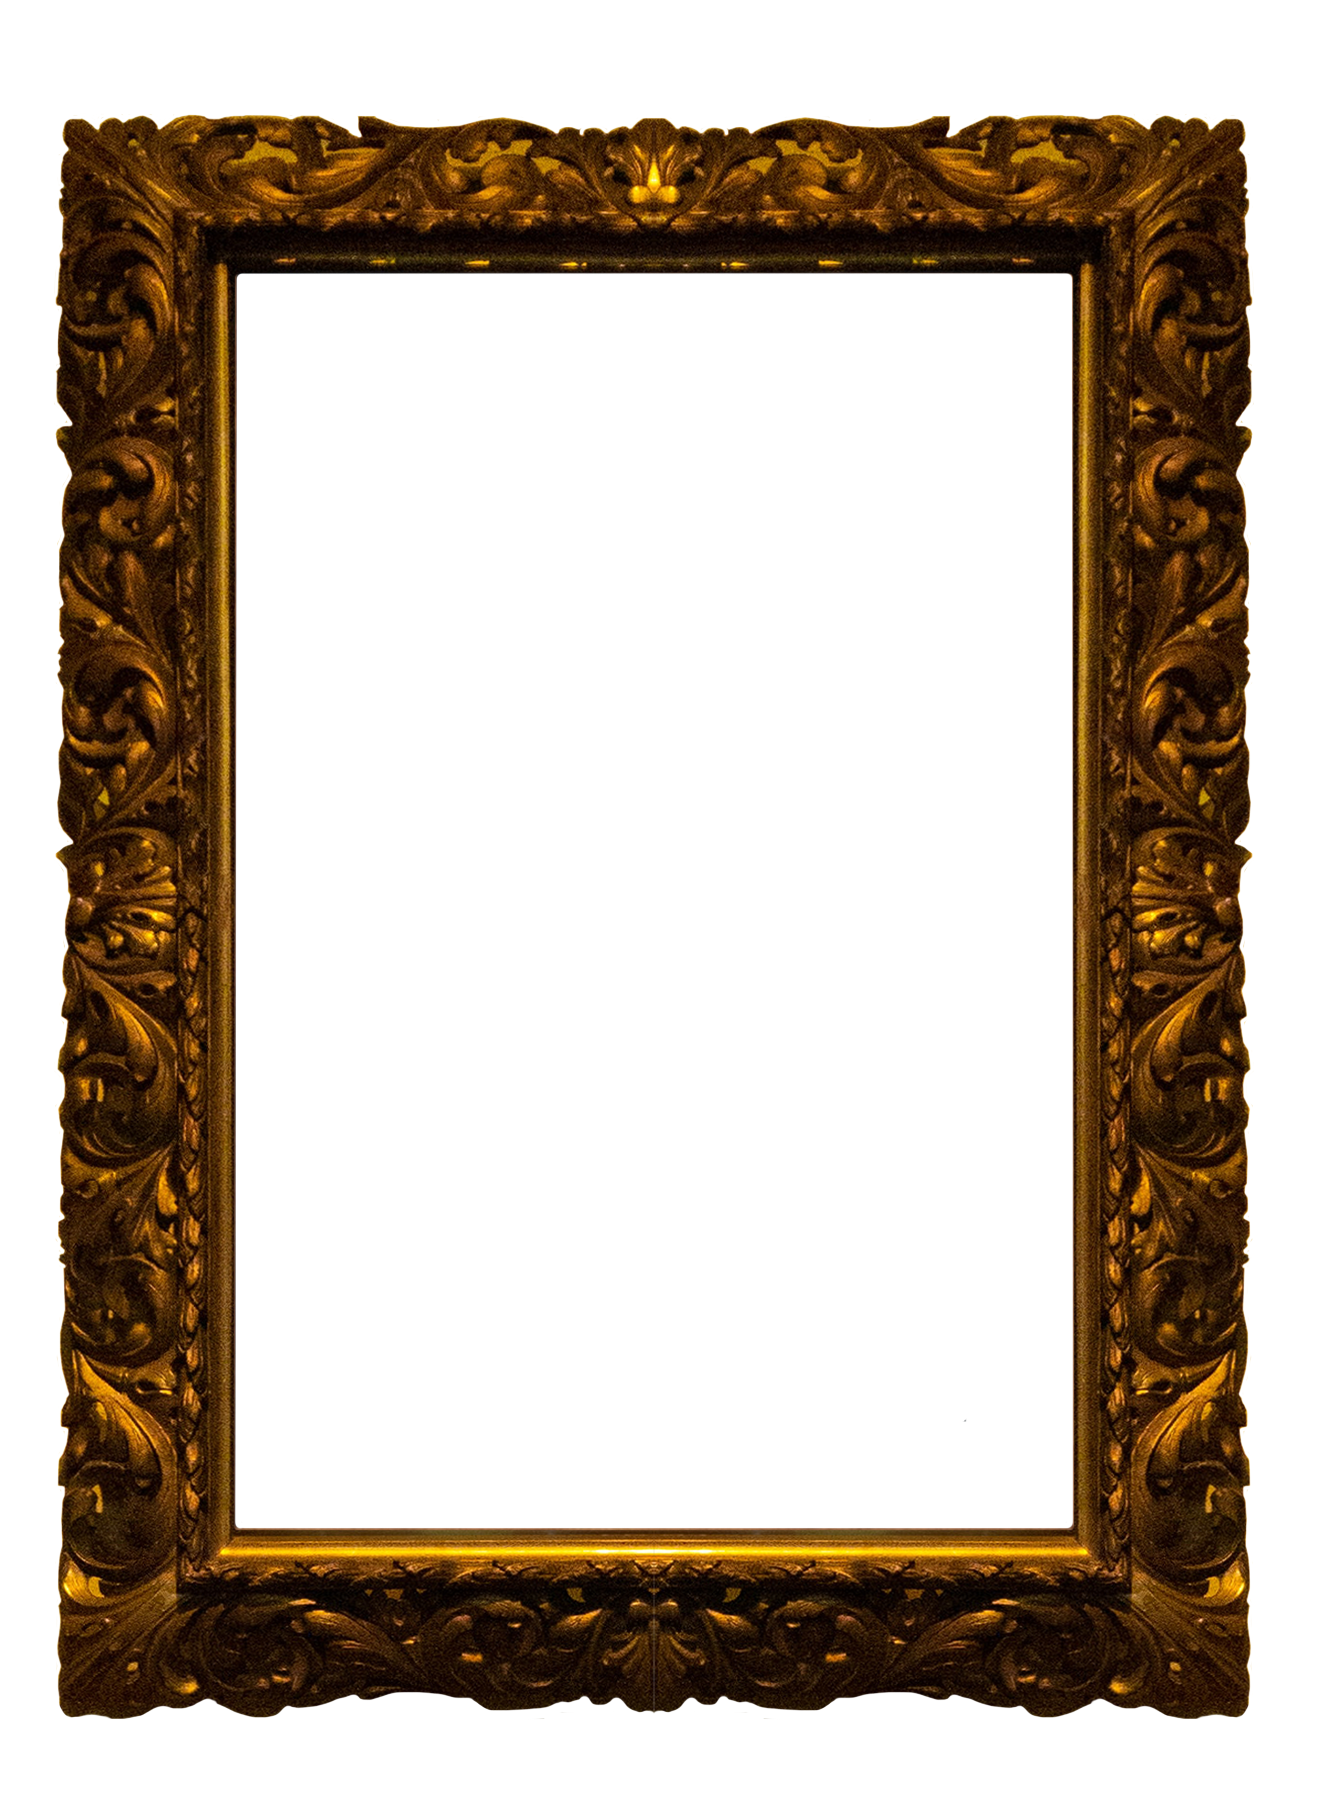
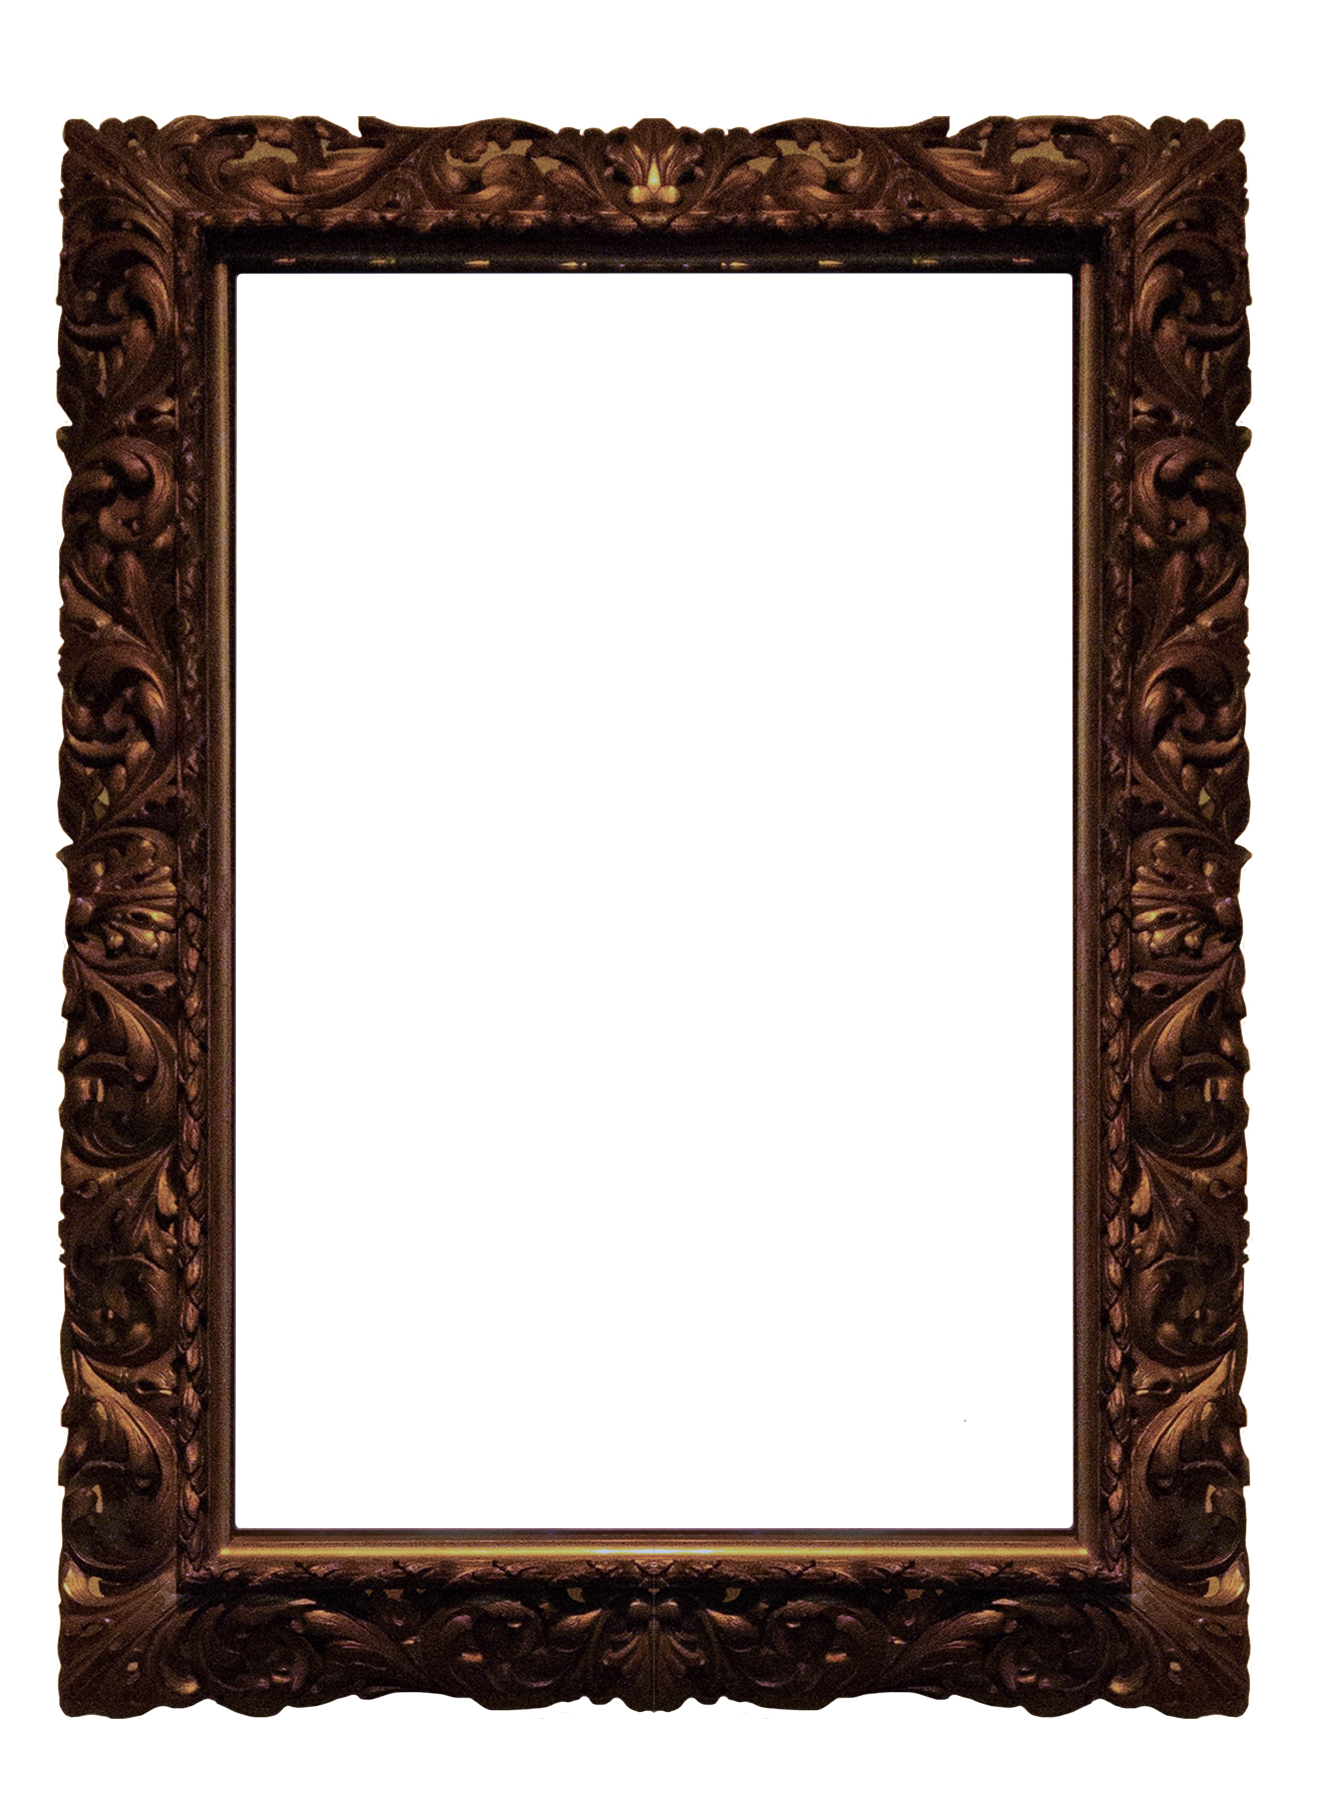
people assets

Changed region(s): [[0.0309, 0.0619, 0.9585, 0.8982], [0.8348, 0.8673, 0.9585, 0.8982], [0.0618, 0.1858, 0.0928, 0.2168]]

diff --git a/people.html b/people.html
@@ -28,7 +28,9 @@
 
               background-image: url("people-assets/jacyesterday08.png");
 
-              opacity: 1;
+              opacity: .4;
+                
+                background-color: black;
 
             }
 
@@ -45,8 +47,6 @@
               width: 100%; 
 
               height: 100%;
-
-              background-image: radial-gradient(rgba(0, 0,0,0), black 70%);
                 
               background-size: 800px 800px;
 

diff --git a/people.css b/people.css
@@ -82,7 +82,8 @@ body {
   -webkit-transform: translate(-50%, -50%);
   transform: translate(-50%, -50%);
   background-image: url("people-assets/jacyesterday08.png");
-  opacity: 1;
+  opacity: .4;
+    background-color: black;
 }
 
 .people-overlay {
@@ -91,7 +92,6 @@ body {
   left: 0;
   width: 100%; 
   height: 100%;
-  background-image: radial-gradient(rgba(0, 0,0,0), black 70%);
   background-size: 800px 800px;
 }
 
